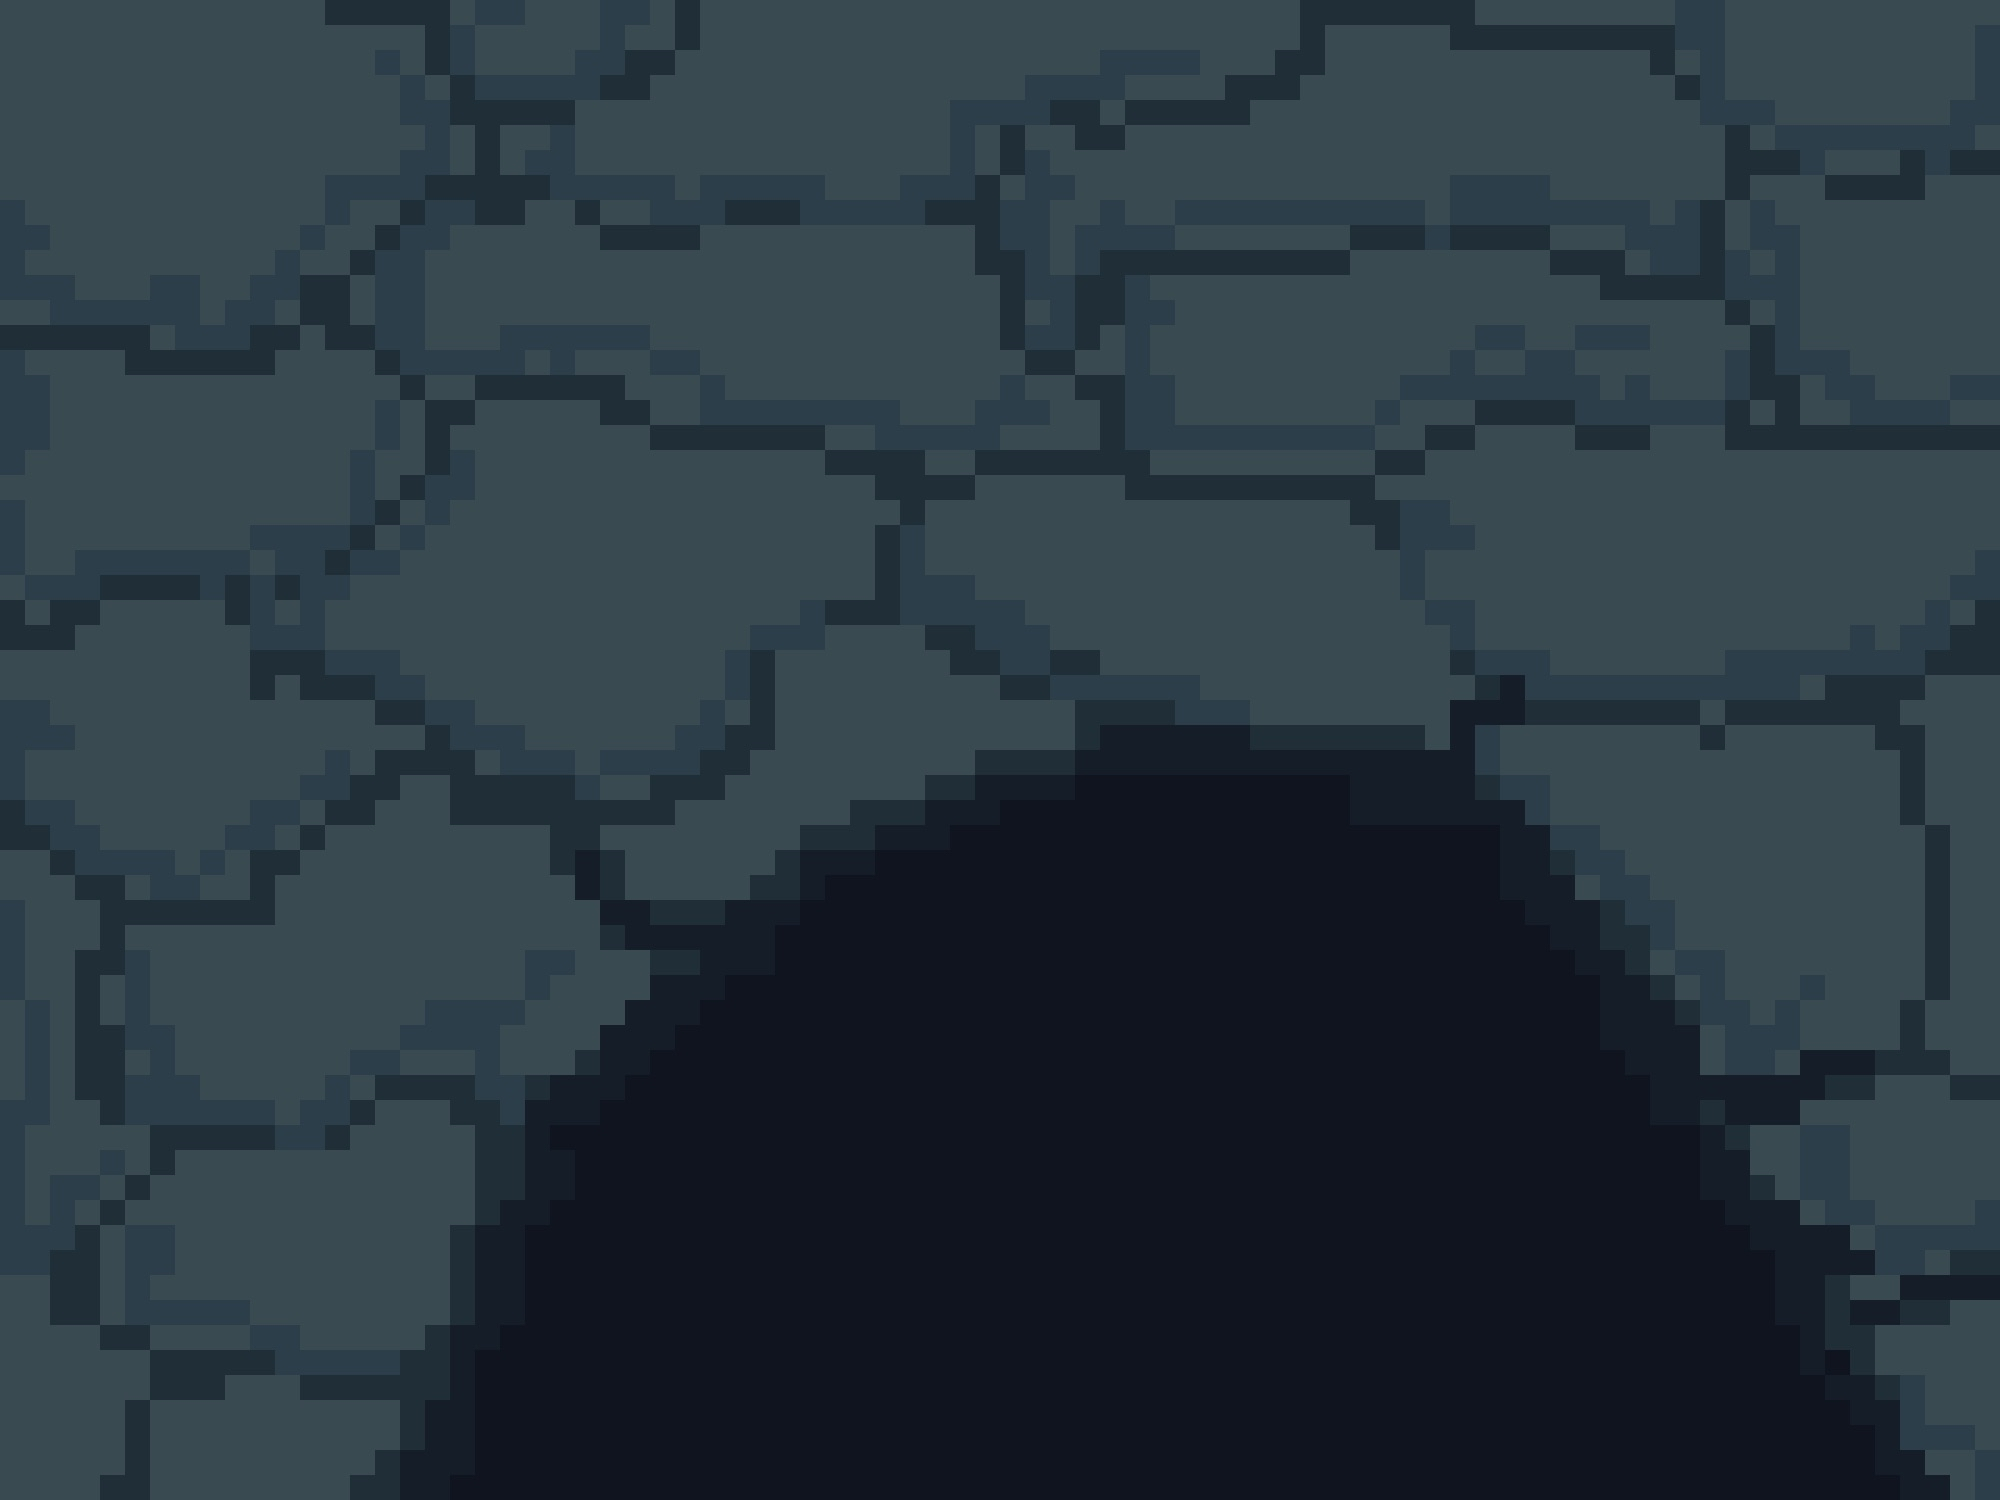
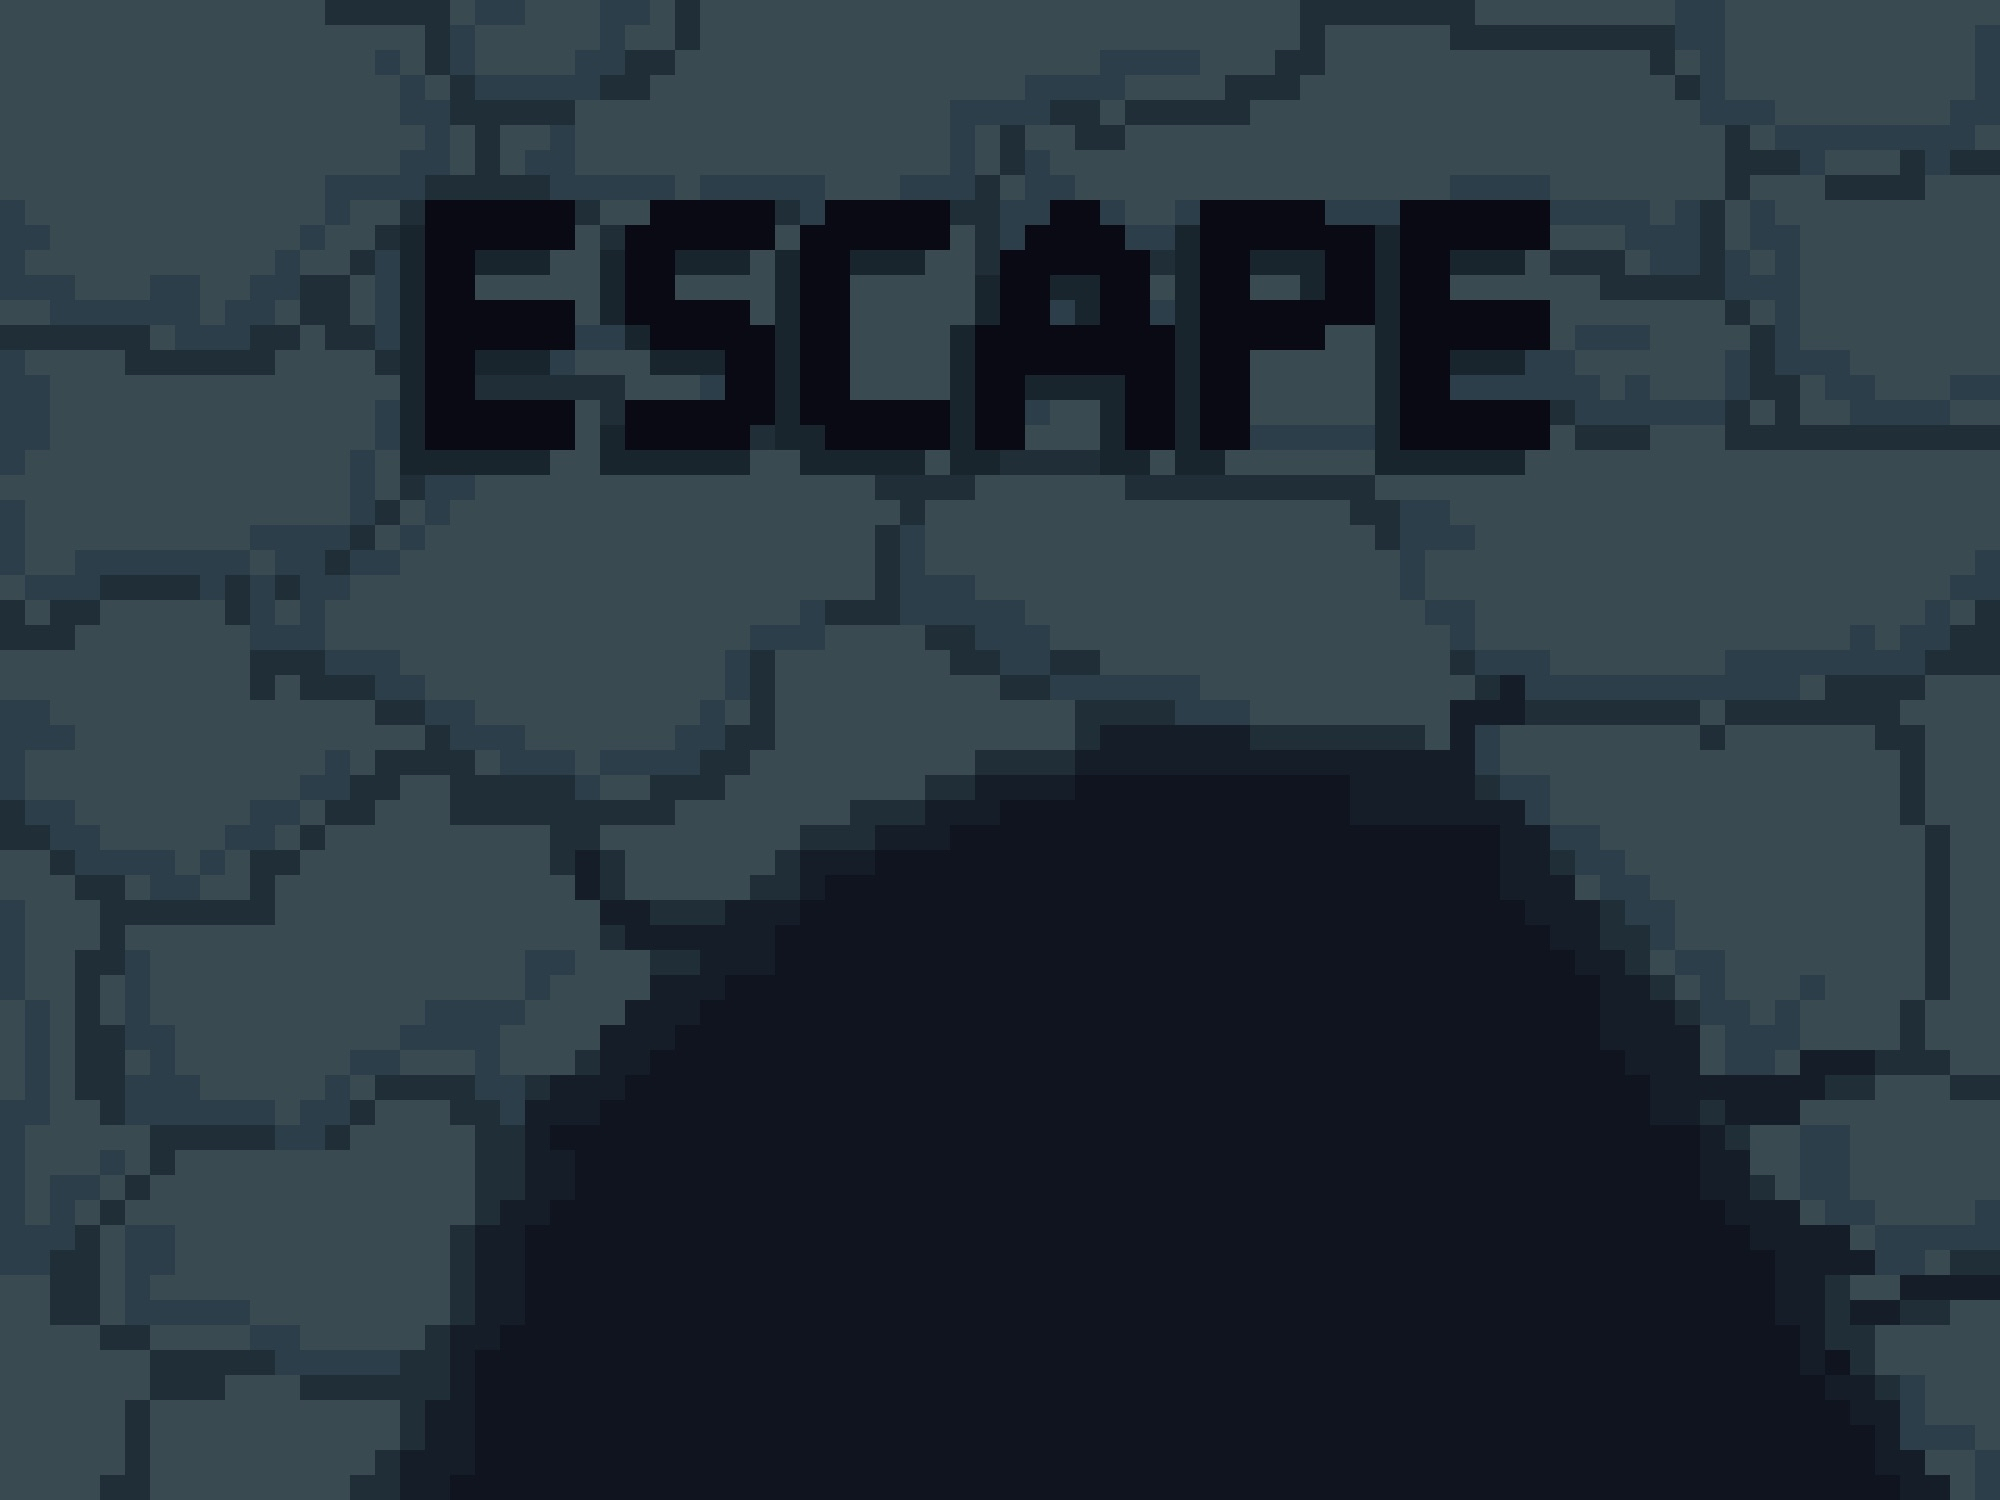
fixed menu

Changed region(s): [[0.186, 0.1227, 0.775, 0.3373]]

diff --git a/game.py b/game.py
@@ -483,8 +483,8 @@ class Game:
     def _draw_menu(self) -> None:
         """Draw the menu screen."""
         self.game_surface.blit(self.menu_background, (0, 0))
-        self._draw_text("Escape", BLACK, self.font_title, 
-                       pygame.Rect(0, 50, BASE_SCREEN_WIDTH, 100), surface=self.game_surface)
+        # self._draw_text("Escape", BLACK, self.font_title, 
+        #                pygame.Rect(0, 50, BASE_SCREEN_WIDTH, 100), surface=self.game_surface)
         
         # Draw buttons
         start_button_surf, start_button_text = self._create_button(
